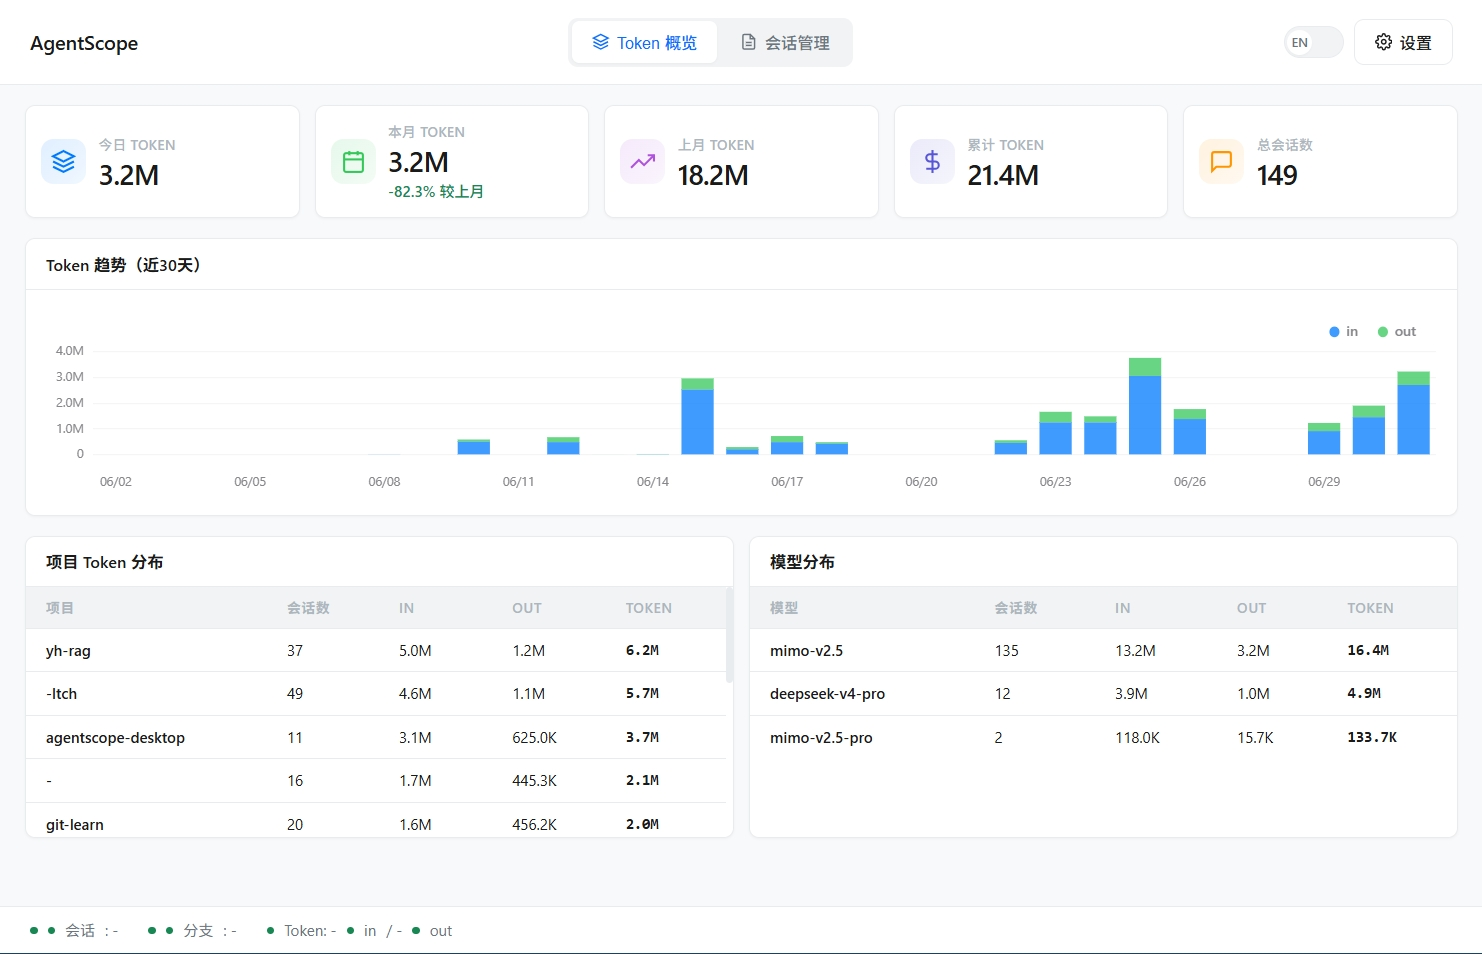
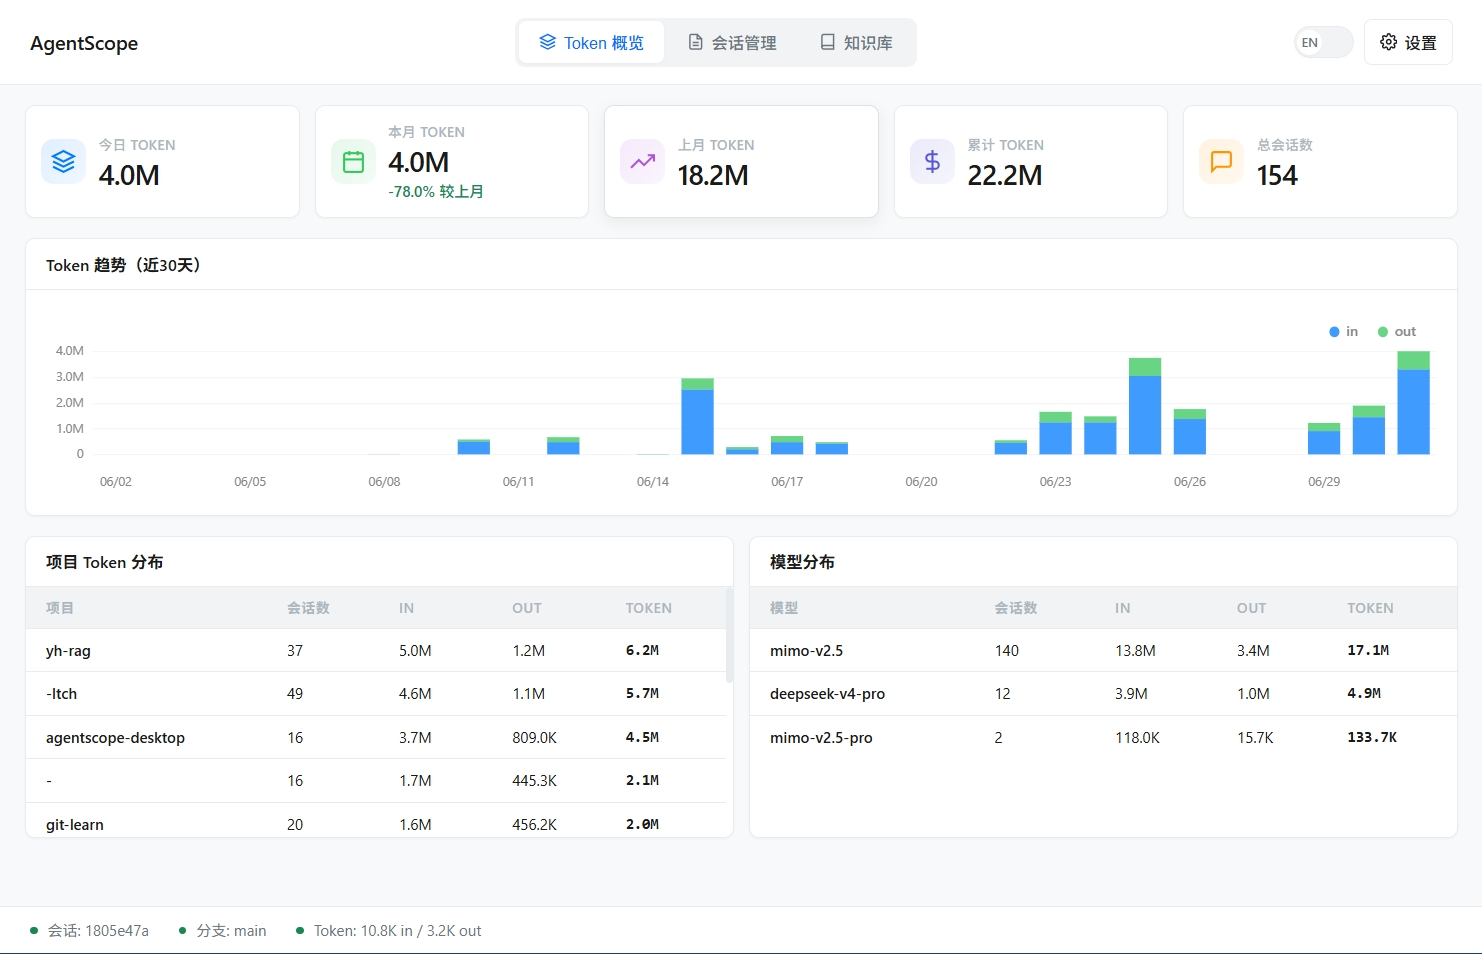
update readme

diff --git a/README.md b/README.md
@@ -56,8 +56,6 @@
 
 选择左侧任意会话，即可查看对话记录、文件改动、Token 消耗。
 
-![预览图](docs/images/preview.png)
-
 ---
 
 ## ✨ 功能一览
@@ -125,7 +123,7 @@
 ![Token 仪表盘](docs/images/preview.png)
 
 ![会话管理](docs/images/preview2.png)
-
+![预览图](docs/images/preview3.png)
 ---
 
 ## 🛡️ 风险评估引擎